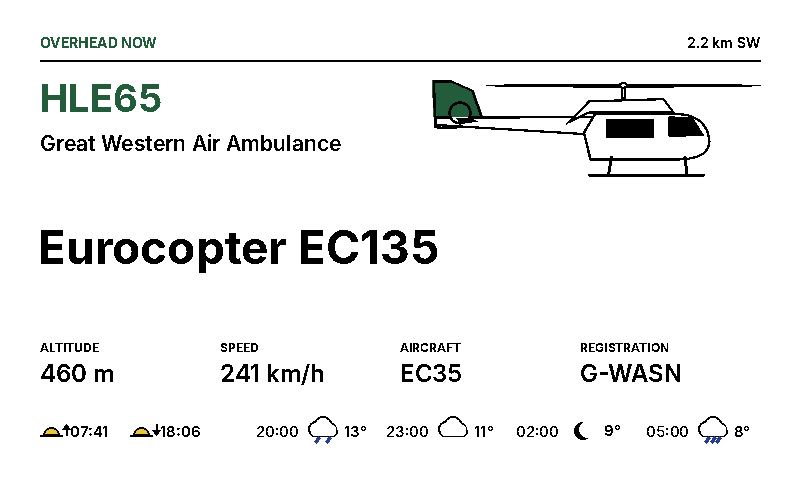
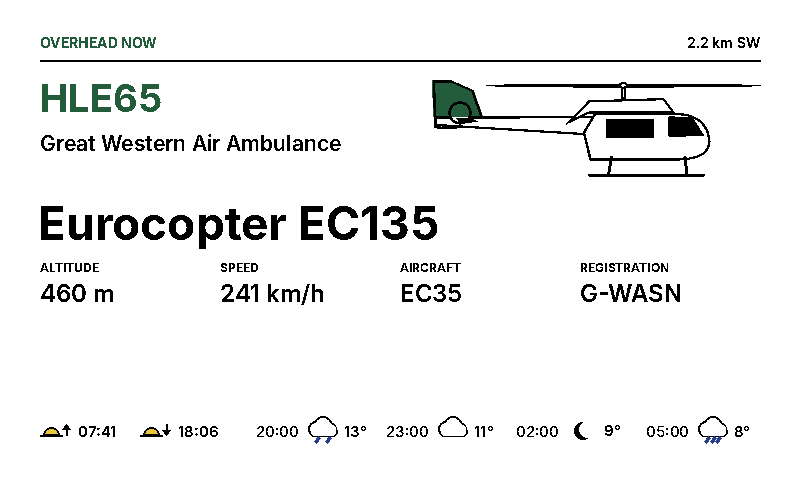
Tighter route block, figures follow it, more room around sun times
Claude-Session: https://claude.ai/code/session_018gFwbrNEjFhUAusQjyrhwY

diff --git a/flightframe/render.py b/flightframe/render.py
@@ -237,8 +237,8 @@ def _footer_wx(c, wx):
     if sun[0]:
         for t, up in ((sun[0], True), (sun[1], False)):
             _sun_glyph(c.d, x + 11, mid, up)
-            c.text((x + 30, mid), t.strftime("%H:%M"), f_time, anchor="lm")
-            x += 30 + int(text_w(c.d, "00:00", f_time)) + 16
+            c.text((x + 38, mid), t.strftime("%H:%M"), f_time, anchor="lm")
+            x += 38 + int(text_w(c.d, "00:00", f_time)) + 18
     slots = (wx or {}).get("slots") or []
     if not slots:
         c.text((c.w - c.m, mid), f"Updated {_now()}", font("regular", 13), anchor="rm")
@@ -335,6 +335,7 @@ def poster(f, cfg, nearby=0, logo=None, wx=None):
     rows = 2 if c.portrait else 1
     stats_top = c.h - c.m + 10 - FOOTER_WX - rows * ROW_H - 14
 
+    content_end = y
     # --- route
     if f.has_route:
         o, d = f.origin, f.destination
@@ -350,9 +351,10 @@ def poster(f, cfg, nearby=0, logo=None, wx=None):
             ah = big.getbbox("A")[3]
             for i, ap in enumerate((o, d)):
                 c.text((c.m - 3, y), ap["iata"], big, anchor="lt")
-                cy = y + ah + 12
+                cy = y + ah - 3
                 fc_ = fit(c.d, ap["city"], "semi", 20, inner, 14)
                 c.text((c.m, cy), ellipsize(c.d, ap["city"], fc_, inner), fc_, anchor="lt")
+                content_end = cy + fc_.getbbox("L")[3]
                 y = cy + fc.size + 16
                 if i == 0:
                     _arrow(c, c.m, c.m + 70, y + 6, accent, head=14, thick=4)
@@ -372,10 +374,10 @@ def poster(f, cfg, nearby=0, logo=None, wx=None):
             ah = big.getbbox("A")[3]
             _arrow(c, c.m + code_w + 22, c.m + code_w + arrow_w - 22, y + ah * 0.55,
                    accent, head=14, thick=4)
-            cy = y + ah + 14
+            cy = y + ah - 3                       # half the old gap below the codes
             c.text((c.m, cy), ellipsize(c.d, o["city"], fc, code_w), fc, anchor="lt")
             c.text((c.w - c.m, cy), ellipsize(c.d, d["city"], fc, code_w), fc, anchor="rt")
-            y = cy + fc.size + 10
+            content_end = cy + fc.getbbox("L")[3]
     else:
         name = f.type_name or f.type_code or "Aircraft"
         room = stats_top - 22 - y
@@ -383,13 +385,12 @@ def poster(f, cfg, nearby=0, logo=None, wx=None):
         while size > 22 and font("bold", size).getbbox("Ag")[3] > room:
             size -= 2
         fb = fit(c.d, name, "bold", size, inner, 22)
-        nh = fb.getbbox("Ag")[3]
-        ny = y + max(0, (room - nh) // 2) - 4
-        c.text((c.m - 2, ny), ellipsize(c.d, name, fb, inner), fb, anchor="lt")
-        y = ny + nh
+        c.text((c.m - 2, y), ellipsize(c.d, name, fb, inner), fb, anchor="lt")
+        content_end = y + fb.getbbox("L")[3]
 
     # --- figures
-    y = max(y + 10, stats_top)
+    # figures follow the route with a 17px gap (half the old spacing); never past the bottom limit
+    y = min(content_end + 12 - font("bold", 12).getbbox("A")[1], stats_top)
     ph = phase(f)
     cells = [
         ("Altitude" + ("" if ph == "level" else f" · {ph}"), fmt_alt(f.altitude_ft, units)),
